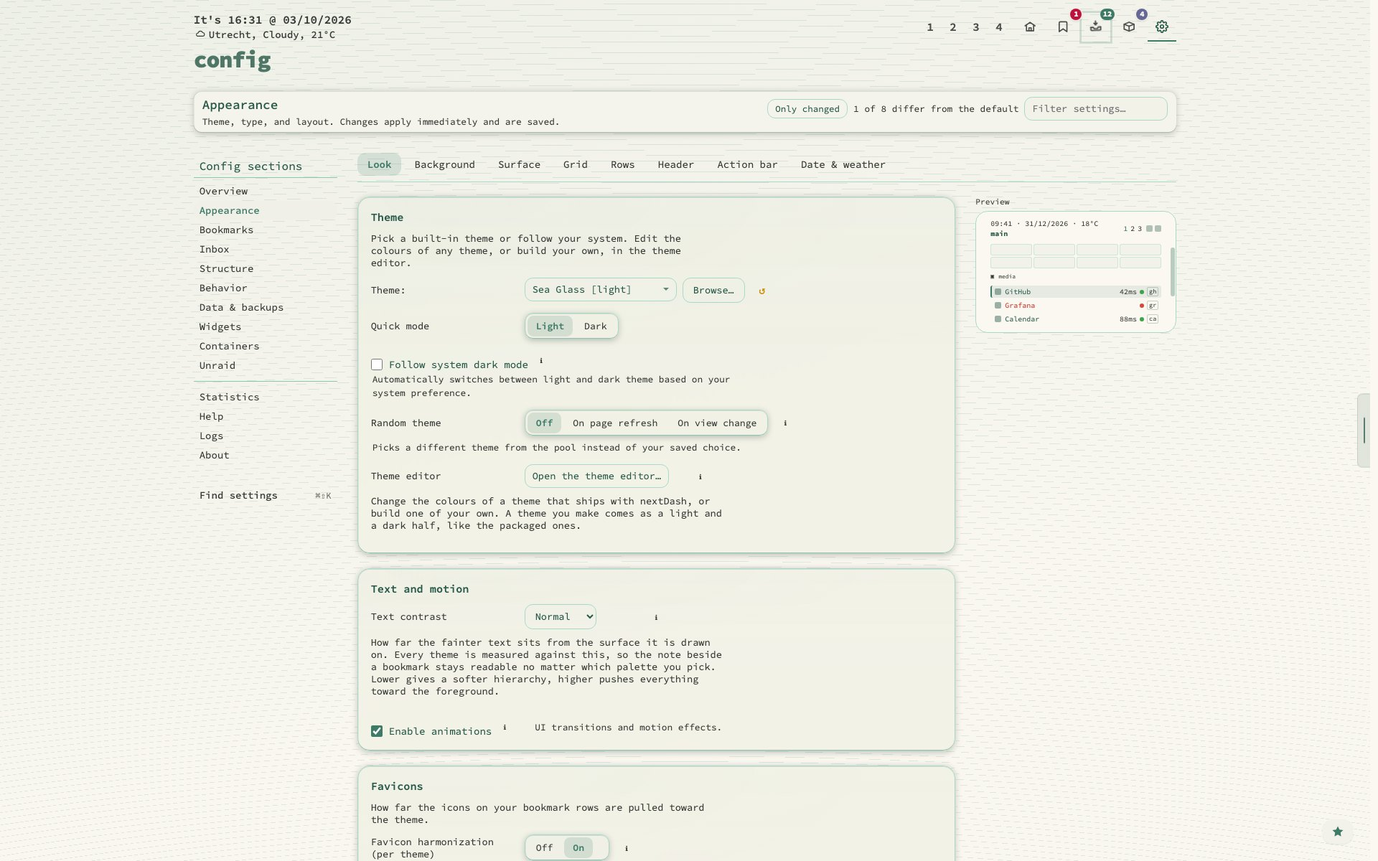
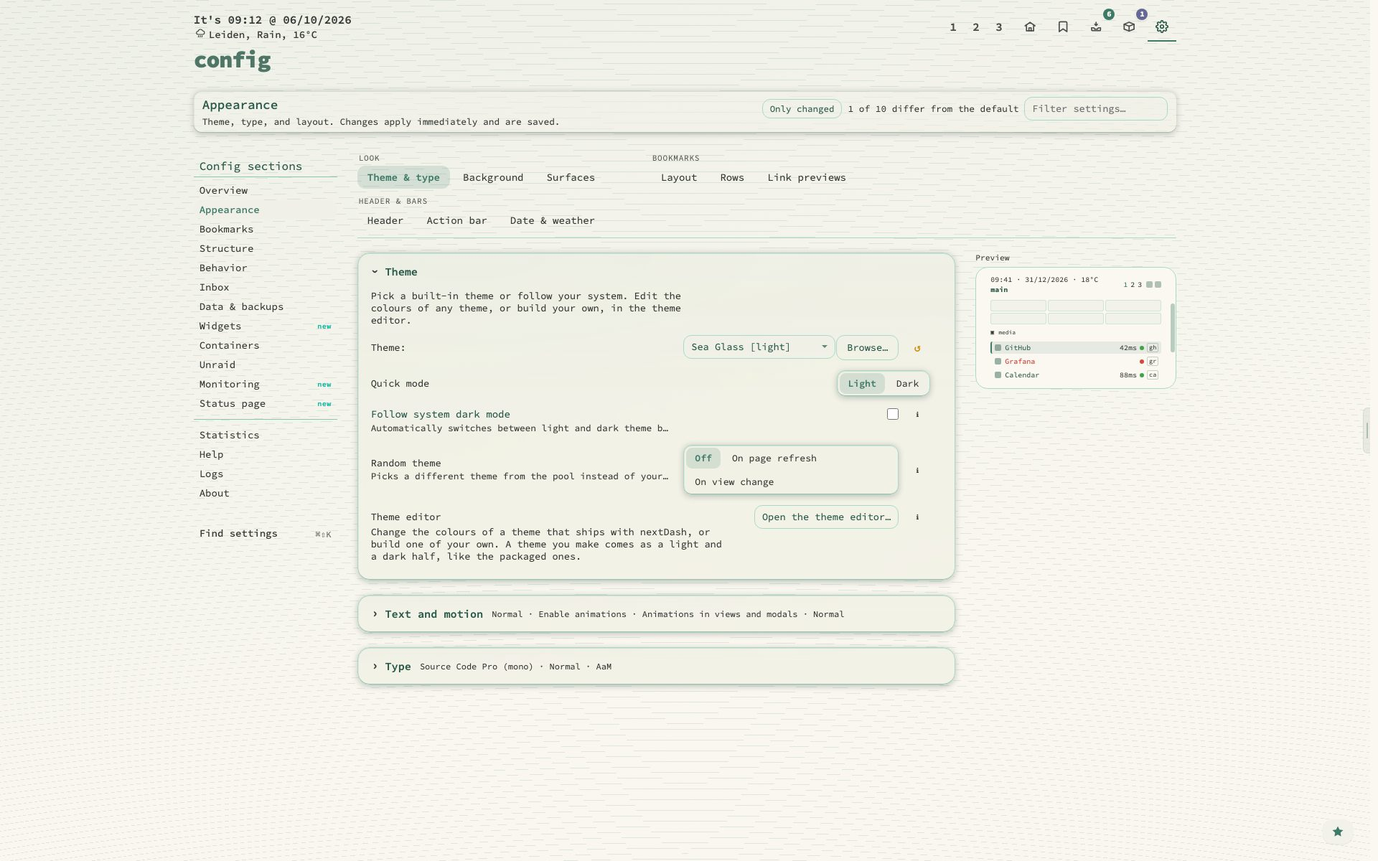
manual and readme: the grouped Appearance tabs, new screenshots

diff --git a/tests/manual-screenshots.spec.js b/tests/manual-screenshots.spec.js
@@ -528,7 +528,7 @@ test('16 look studio', async ({ page }) => {
 test('16 theme editor', async ({ page }) => {
     await prepare(page);
     await openConfig(page, 'appearance');
-    await subtab(page, 'Look').click();
+    await subtab(page, 'Theme & type').click();
     await page.getByRole('button', { name: /Open the theme editor/ }).first().click();
     // Recolour the theme on screen: its colours open below.
     await page.locator('[data-theme-base-select]').selectOption('matrix-bluepill-dark');
@@ -1127,7 +1127,7 @@ test.describe('spread', () => {
 test('full 04 density', async ({ page }) => {
     await prepare(page);
     await openConfig(page, 'appearance');
-    await subtab(page, 'Grid').click();
+    await subtab(page, 'Layout').click();
     // The Compact preset alone changes little at the demo's row height; Dense
     // beside it is what makes the page visibly tighter.
     await page.locator('select[data-behavior-field="layoutPreset"]').selectOption('compact');
@@ -1351,8 +1351,33 @@ test.describe('home assistant tile', () => {
 test('17 animation speed', async ({ page }) => {
     await prepare(page);
     await openConfig(page, 'appearance');
+    // Text and motion folds: open it by its header, the way a reader does.
+    await page.locator('#config-appearance-body .config-panel--fold', { has: page.locator('.config-panel-title', { hasText: /^\s*Text and motion\s*$/ }) })
+        .locator(':scope > .config-panel-head .config-panel-fold').click();
     const field = page.locator('[data-appearance-select="animationSpeed"]').first();
     await field.scrollIntoViewIfNeeded();
     await page.waitForTimeout(400);
     await snap(page, page.locator('.config-field-row', { has: page.locator('[data-appearance-toggle="viewAnimationsEnabled"]') }).locator('xpath=..'), '17-animation-speed.jpg', { pad: 14 });
+});
+
+test('16 appearance rows', async ({ page }) => {
+    await prepare(page);
+    await openConfig(page, 'appearance');
+    await subtab(page, 'Rows').click();
+    // Category header folds: open it by its header, the way a reader does.
+    await page.locator('#config-appearance-body .config-panel--fold', { has: page.locator('.config-panel-title', { hasText: /^\s*Category header\s*$/ }) })
+        .locator(':scope > .config-panel-head .config-panel-fold').click();
+    await page.setViewportSize({ width: 1440, height: 1290 });
+    await page.waitForTimeout(600);
+    await shot(page, '16-appearance-rows.jpg');
+});
+
+test('16 appearance action bar', async ({ page }) => {
+    await prepare(page);
+    await openConfig(page, 'appearance');
+    await subtab(page, 'Action bar').click();
+    await page.locator('#config-appearance-body .config-panel--fold').first().waitFor();
+    await page.setViewportSize({ width: 1440, height: 1100 });
+    await page.waitForTimeout(600);
+    await shot(page, '16-appearance-action-bar.jpg');
 });

diff --git a/MANUAL.md b/MANUAL.md
@@ -253,7 +253,7 @@ This manual describes nextDash as it is now. It follows the same topics as Confi
 - [Surfaces](#163-surfaces)
 - [Type and background](#164-type-and-background)
 - [Custom themes](#165-custom-themes)
-- [Grid and rows](#166-grid-and-rows)
+- [Layout and rows](#166-grid-and-rows)
 - [Header and action buttons](#167-header-and-action-buttons)
 - [Date and weather](#168-date-and-weather)
 - [Finding and resetting](#169-finding-and-resetting)
@@ -914,7 +914,7 @@ Hovering a bookmark — or pressing **`Shift + V`** on the selected row — open
 
 <img src="screenshots/manual.md/04-preview-card.jpg" alt="The link preview card of a bookmark: picture, description, a tag, when it was last opened, its shortcut and where it lives" width="408" align="left">
 
-A row with nothing to say is left out. **Config → Appearance → Rows → Link preview cards** offers **Off**, **On hover** (default) and **Keyboard only**, a hover delay, and a checklist of rows — the player is the **Video player** row in that list. `Shift + V` works in every mode and keeps the card open with **Copy**, **Refresh** and **Edit**.
+A row with nothing to say is left out. **Config → Appearance → Link previews** offers **Off**, **On hover** (default) and **Keyboard only**, a hover delay, and a checklist of rows — the player is the **Video player** row in that list. `Shift + V` works in every mode and keeps the card open with **Copy**, **Refresh** and **Edit**.
 
 **Playing a video.** Nothing reaches YouTube or Vimeo while you hover: the poster is the picture your own server already fetched, and the player is built when you press it. From the keyboard, `Shift + V` puts the cursor on the play button and `Enter` starts it. `Esc` closes the card and ends the video, and so do the **✕** over the player and a click anywhere else — a click inside the player hands the keyboard to the provider, so `Esc` only works again once your pointer leaves the card.
 
@@ -1480,7 +1480,7 @@ A category you just created stays visible even with *hide empty categories* on, 
 
 Each category header has a **⋯** menu with **Manual**, **A–Z**, **Last opened**, **Newest** and **Most opened**. The chosen sort shows as a short chip in front of the ⋯ (*A–Z*, *Rec*, *New*, *Top*); click it to go back to manual order. **Last opened** and **Most opened** put bookmarks never opened last. Pinned bookmarks always stay on top. A sorted category cannot be dragged — the cursor and a short note say so. Sorting is only a view; the stored order changes when you drag.
 
-Click a header, or press `Enter` on it, to fold the category. **`.`** folds or unfolds everything on the page, widgets included; the state is kept per page. **Start with categories collapsed** (Appearance → Grid) starts every category folded.
+Click a header, or press `Enter` on it, to fold the category. **`.`** folds or unfolds everything on the page, widgets included; the state is kept per page. **Start with categories collapsed** (Appearance → Layout) starts every category folded.
 
 <a id="94-moving-and-reordering-bookmarks"></a>
 
@@ -1513,7 +1513,7 @@ The number of columns is not a setting: it follows from **items per category** a
 | 16–30 | 2 |
 | 31–45 | 3 |
 
-The column count of the grid is the ceiling. Spreading needs a limit on items per category and at least two columns. With **Pack columns tightly** on, the categories after a spread one fill in beside and below it. On a phone held upright every category is one column wide. **Appearance → Grid → Categories across columns** holds the limit, whether new categories start spread (they do by default), and whether *turn spreading off everywhere* covers this page or all pages. A walkthrough is under Config → Help → Structure & bookmarks.
+The column count of the grid is the ceiling. Spreading needs a limit on items per category and at least two columns. With **Pack columns tightly** on, the categories after a spread one fill in beside and below it. On a phone held upright every category is one column wide. **Appearance → Layout → Categories across columns** holds the limit, whether new categories start spread (they do by default), and whether *turn spreading off everywhere* covers this page or all pages. A walkthrough is under Config → Help → Structure & bookmarks.
 
 <a id="96-smart-collections"></a>
 
@@ -1583,7 +1583,7 @@ A file is at most 2 MB.
 
 - Set them in the bookmark form, the side panel in the Bookmarks view, with `Shift + T`, or with `:tag +name`. The form, the side panel, `Shift + T` and the selection's tag picker each show the tags this bookmark is likely to want, under **Suggested**; `Shift + T` opens at the top of its list, with those first.
 - Stored in lower case, trimmed, without duplicates. Autocomplete offers the tags you already use.
-- **Tags on rows** (Appearance → Rows) shows them as chips on the dashboard — the first few, then a count. The chips are labels only; to see everything with a tag, use the tag cloud (`/`) or select the bookmark and press `t`.
+- **Tags on rows** (Appearance → Rows → Bookmark display) shows them as chips on the dashboard — the first few, then a count. The chips are labels only; to see everything with a tag, use the tag cloud (`/`) or select the bookmark and press `t`.
 
 <a id="102-filtering-by-tag"></a>
 
@@ -3050,9 +3050,23 @@ Seven widgets read an Unraid server through its API: **Unraid**, **Unraid array*
 ## 16. 🎨 Appearance
 
 > [!NOTE]
-> **In short:** Appearance changes how the dashboard looks: themes, background, surfaces, type, grid, rows, header and action bar. Pick, preview and apply, or build a theme of your own.
+> **In short:** Appearance changes how the dashboard looks: themes, background, surfaces, type, layout, rows, link previews, header and action bar. Pick, preview and apply, or build a theme of your own.
 
-**Config → Appearance** opens straight on its settings, on the tab you had open if that was in the last five minutes, and on **Look** otherwise. Eight tabs: **Look**, **Background**, **Surface**, **Grid**, **Rows**, **Header**, **Action bar** and **Date & weather**. Every setting of a tab is on it, with a short line under each saying what it does.
+**Config → Appearance** opens straight on its settings, on the tab you had open if that was in the last five minutes, and on **Theme & type** otherwise. Nine tabs in three labelled groups:
+
+| Group | Tabs |
+|---|---|
+| **Look** | **Theme & type**, **Background**, **Surfaces** |
+| **Bookmarks** | **Layout**, **Rows**, **Link previews** |
+| **Header & bars** | **Header**, **Action bar**, **Date & weather** |
+
+The strip wraps instead of scrolling: a group that does not fit moves to the next line whole, so every tab is on screen down to phone width. Every setting is on one of them, with a short line under each saying what it does. The old names still open the right tab: a link to `/#config/appearance/grid` lands on Layout, `…/look` on Theme & type, and `…/surface` on Surfaces.
+
+**Panels fold.** On every tab the first panel is open and the others fold to a header with one line of their current values, changed values first. Open or fold a panel by hand and it stays that way, per tab, in this browser. The filter, **Only changed**, **Find settings** and a link such as `/#config/appearance/rows/category-header` open the panel they land in; **Reset panel** in a folded header resets it without opening it. A tab with more than three panels lists them above the preview — choosing one opens it and scrolls to it, and the panel in view is marked; under 900 px the list is left out.
+
+**Label left, control right.** A setting's label and one-line explanation stand on the left and its control on the right, in one shared column. A longer explanation is cut with an ellipsis and stays whole in its tooltip and the ℹ. Under 600 px the control goes under its label.
+
+**Chips.** A run of *Show the … button* switches is one row of chips: the action bar (nine buttons), the header buttons, the category header extras, the row status and the date line. Each chip is still its own setting; the group has one **↺** for the chips that differ from the default and one **ℹ** that says what each chip does. The link preview fields and the Bookmarks view's columns and rail blocks use chips too.
 
 **The preview.** Beside the settings stands a small drawing of your dashboard — header, grid, a few rows and the action dock. It follows every change as you make it, in your own theme and font, and marks the part the open tab is about: the grid on Grid, the rows on Rows, the header on Header, the clock on Date & weather, the buttons on Action bar. On a narrow window it moves above the settings.
 
@@ -3062,7 +3076,7 @@ Seven widgets read an Unraid server through its API: **Unraid**, **Unraid array*
 
 nextDash ships **164 theme families**, each with a light and a dark half — 328 themes in all. A fresh install starts on **Matrix Bluepill**, cyan code on deep blue, with depth, glow and effects on **Follow the theme**, so the theme draws itself the way it was made.
 
-**Theme** on the Look tab lists every theme by name. Beside it:
+**Theme** on the Theme & type tab lists every theme by name. Beside it:
 
 - **The theme browser** — **Browse…**, or **`Shift + A`** on the dashboard. It opens as a panel beside the dashboard, with tabs of its own ([see below](#the-theme-browser)); the first, **Themes**, has one card per family, with a light/dark switch and the line that says what the theme is like to sit in front of. At the top: a search box, the segments *All*, *Favourites*, *Light* and *Dark*, and **More filters**, which unfolds the **character chips** ([§16.2](#162-character)) and the **collection** chips. While it is folded, the filters that are on show as chips you can remove, and the button counts them. *Light* and *Dark* turn every card to that half; a card can still be switched by hand. Search matches a family's name, its character and the words of its line. The 38 newest families wear a **new** badge, and searching `new` finds them. Themes of your own come first, under **Your themes**, with a **yours** badge (and **look** when they bring one along); a segment **Yours** shows only them, and searching `yours` finds them. A packaged theme you recoloured wears **recoloured**. A star keeps up to 24 families under *Favourites*. Pointing at a card previews that theme on the real dashboard; clicking one puts it on the page. A line above the grid names the theme in use — or, once you have picked another, which one is chosen and which stays until **Apply** — and **Show** brings its card into view.
 - **Collections** — the **Neutrals** collection holds five calm grey palettes — Slate, Zinc, Gray, Stone and Neutral — drawn under glass, each with a backdrop of its own.
@@ -3174,8 +3188,8 @@ roundness, and the surfaces the theme asks to be drawn at.
 ### 16.3 Surfaces
 
 These change how any theme is drawn. Depth, Glow, Effects and Card glass are on
-the **Surface** tab; Text contrast, animations and favicon harmonization on
-**Look**. The first three start on **Follow the theme**: each theme states what
+the **Surfaces** tab; Text contrast and animations on **Theme & type**, favicon
+harmonization in the **Favicons** panel on **Rows**. The first three start on **Follow the theme**: each theme states what
 it was drawn for, and picking a theme brings its answer with it.
 
 | Setting | Choices |
@@ -3208,7 +3222,7 @@ other theme keeps its own. The backdrop and the card glass work the same way.
 - **Typeface** — Source Code Pro, JetBrains Mono, IBM Plex Mono, Inter, IBM Plex Sans, DM Sans or System UI — or **upload a font file**.
 - **Weight** — Normal, Semi-bold or Bold. **Size** — seven steps from XS to XL; pointing at a size previews it.
 
-Type is on the **Look** tab; everything behind the bookmarks is on the **Background** tab, drawn in three layers from the bottom up: the theme's backdrop, a pattern over it, and a background of your own on top.
+Type is in the **Type** panel on the **Theme & type** tab; everything behind the bookmarks is on the **Background** tab, drawn in three layers from the bottom up: the theme's backdrop, a pattern over it, and a background of your own on top.
 
 - **Source** — **Auto** (follows the theme), **None**, **Gradient** or **Image**. **Opacity** (65–100%) fades it so the bookmarks stay readable. A background of your own is drawn over the theme backdrop.
 - **Theme backdrop** — **Follow the theme** (default), **Choose one** or **Off**. Every theme draws a backdrop of its own, in its own colours; each light and dark half share one. *Follow the theme* names the one it draws, and *Choose one* opens a grid of all 26, previewed in your theme's colours:
@@ -3231,7 +3245,7 @@ Type is on the **Look** tab; everything behind the bookmarks is on the **Backgro
 
 ### 16.5 Custom themes
 
-**Open the theme editor…** on the Look tab opens the editor as a page of its own; **← Look** above it goes back. A link to `/#config/appearance/custom-themes` opens it directly.
+**Open the theme editor…** on the Theme & type tab opens the editor as a page of its own; the back link above it returns to Theme & type. A link to `/#config/appearance/custom-themes` opens it directly.
 
 - **Your themes** — **Add custom theme**, edit, reorder (↑ ↓), delete, **⤓** export to a JSON file, and **Import theme…**. A theme you make appears in the theme list beside the packaged ones.
 - A custom theme can set everything a packaged theme can: its colours, and under **Shape & character** its character, corner roundness, surface opacity, blur, glow, the **Gloss** slider (how much light a surface catches), the grain's direction and strength, the category titles, the backdrop — **Automatic** or any of the 26 patterns, shown as tiles in the theme's own colours — and the depth and effects it asks to be drawn at. It has a light and a dark half, like the built-in themes.
@@ -3250,9 +3264,9 @@ Type is on the **Look** tab; everything behind the bookmarks is on the **Backgro
 
 <a id="166-grid-and-rows"></a>
 
-### 16.6 Grid and rows
+### 16.6 Layout and rows
 
-**Grid**
+**Layout** tab — panels **Bookmarks layout** and **Categories across columns**.
 
 | Setting | What it does |
 |---|---|
@@ -3271,7 +3285,7 @@ Type is on the **Look** tab; everything behind the bookmarks is on the **Backgro
 
 Small drawings beside the shape settings show what a value looks like.
 
-**Rows**
+**Rows** tab — panels **Favicons**, **Category header** and **Bookmark display**. The first two lines are the Favicons panel; **Favicon harmonization** (Muted, Tinted or Overlay, with an intensity, stored per theme) is in it too.
 
 | Setting | What it does |
 |---|---|
@@ -3279,10 +3293,14 @@ Small drawings beside the shape settings show what a value looks like.
 | **Change bookmark color when offline** | A broken row takes the status colour |
 | **Shortcut letters on rows** | **Always** (default; a column down the right of each category) · **Only on the row you are on** · **Never** — the shortcuts keep working in every mode |
 | **How a row lights up** | **Subtle** (default) or **Strong** — how far the accent carries across the row you are on |
-| **Show online/offline status** | Status colours on the rows; with it, **Show a loading state while checking** and **Show ping times** |
+| **Row status** | Chips for the online/offline status colours, **a loading state while checking** and **ping times** |
 | **Show tags on bookmark rows** | And **Tags shown before "+N"** |
-| **Category header** | How a category's name reads above its bookmarks. **Style**: Follow the theme (default), Clean, Underlined (optionally in the accent colour), Boxed, Label or Group card, which wraps the category and its bookmarks in one pane. **Size**: Small, Medium or Large. **Show the category icon** — the icon is chosen per category, from its menu. **Show how many bookmarks it holds** puts the count on the right |
-| **Link preview cards** | Off · On hover (default) · Keyboard only, a hover delay (Fast, Balanced, Calm) and **What the card shows**: image, site, author & date, video player, description, your note, tags, status & uptime, opens, Fresh count, shortcut & location ([§4](#4-the-dashboard)) |
+| **Category header** | How a category's name reads above its bookmarks. **Style**: Follow the theme (default), Clean, Underlined (optionally in the accent colour), Boxed, Label or Group card, which wraps the category and its bookmarks in one pane. **Size**: Small, Medium or Large. **Shown in the header** — chips for the category icon (chosen per category, from its menu), the count of bookmarks on the right, and the underline |
+
+**Link previews** tab — one panel, **Link preview cards**: Off · On hover (default) · Keyboard only, a hover delay (Fast, Balanced, Calm) and **What the card shows**, as chips: image, site, author & date, video player, description, your note, tags, status & uptime, opens, Fresh count, shortcut & location ([§4](#4-the-dashboard)).
+
+<p align="center"><img src="screenshots/manual.md/16-appearance-rows.jpg" alt="Config, Appearance on its Rows tab: the open Favicons panel, the open Category header panel with its Style and Size choices and the Icon, Count and Underline chips, and the folded Bookmark display panel with a line of its values" width="860"></p>
+<p align="center"><sub>The Rows tab: two panels open, the third folded to its values; the header extras are chips.</sub></p>
 
 <details>
 <summary>📷 Screenshot — the Compact layout preset at Dense density, full page</summary>
@@ -3297,16 +3315,20 @@ Small drawings beside the shape settings show what a value looks like.
 
 See [§4](#4-the-dashboard) for what each part does. The settings:
 
-- **Header** tab — button style (plain or boxed), page tabs on/off, page names in tabs, page switcher style, page tabs before *+N*, the dashboard title, and toggles for the dashboard, inbox and config buttons (the Bookmarks and Containers icons are switched under Config → Bookmarks → View and Config → Containers). Also **Clock & weather** — where they stand: beside the view name, in a column of their own, or on their own line — and **Browser tab**: the page name in the browser title, and **Branding**, the page title and favicon, also used when nextDash is installed as an app.
-- **Action bar** tab — where the fixed buttons stand (a column on the right by default), action buttons before *+N*, show the action buttons, show the key on each button, slide a docked bar away (2 seconds by default), how the buttons come into view each time the bar appears (off by default; five styles on cards), and one switch per button. See [§4](#4-the-dashboard) for what sliding away looks like and how the bar comes back.
+- **Header** tab, panels **Header** and **Browser tab & branding** — button style (plain or boxed), page tabs on/off, page names in tabs, page switcher style, page tabs before *+N*, the dashboard title, and chips for the dashboard, inbox, config and Bookmarks-view buttons. The browser tab sits in the second panel: the page name in the browser title, a custom title and the favicon upload, also used when nextDash is installed as an app. Where the clock and weather stand is set on Date & weather ([§16.8](#168-date-and-weather)).
+- **Action bar** tab — **Show the action buttons** leads, since it decides whether the rest matters; then where the fixed buttons stand (a column on the right by default), **Button size** (extra small to extra large; medium by default, one step up from the 28 px squares the bar had, which are now *small*), action buttons before *+N*, show the key on each button (off for new installs), slide a docked bar away (2 seconds by default), how the buttons come into view each time the bar appears (off by default; a dropdown — picking a style plays it on the real bar at once), and one chip per button. See [§4](#4-the-dashboard) for what sliding away looks like and how the bar comes back.
 
-Each group has **Show all / Hide all**.
+Each chip group has **Show all / Hide all**.
+
+<p align="center"><img src="screenshots/manual.md/16-appearance-action-bar.jpg" alt="Config, Appearance on its Action bar tab: Show the action buttons, where the bar stands, Button size set to Medium, the key switch, the animation dropdown and the nine button chips" width="860"></p>
+<p align="center"><sub>The Action bar tab: size and animation are dropdowns, the nine buttons are chips.</sub></p>
 
 <a id="168-date-and-weather"></a>
 
 ### 16.8 Date and weather
 
-- **Date & time** — show date, show time, date format, 12- or 24-hour clock. Where the clock and weather stand in the header is set on the Header tab ([§16.7](#167-header-and-action-buttons)).
+- **Clock & weather** — leads the tab: where they stand — beside the view name, in a column of their own, or on their own line.
+- **Date & time** — show date, show time (chips), date format, 12- or 24-hour clock.
 - **Weather** — on or off, **Location source** (a city you type, or *Automatic (by IP)*), Celsius or Fahrenheit, refresh interval. The Weather widget reads the same settings.
 - **Calendar** — **Calendar URL** (the link in the date popover) and **Calendar feed URL (.ics)** (what the Calendar widget reads).
 
@@ -3314,7 +3336,7 @@ Each group has **Show all / Hide all**.
 
 ### 16.9 Finding and resetting
 
-Each tab has a filter beside **Only changed**. When the filter — or **Only changed** — finds something on another tab too, the line under the list names that tab with a count (*Also found on: Header 2*); a click opens it and keeps the filter. **↺** resets one setting, **Reset panel** a whole group. `Ctrl/Cmd + Shift + K` finds any setting ([§17](#17-config)).
+Each tab has a filter beside **Only changed**. When the filter — or **Only changed** — finds something on another tab too, the line under the list names that tab with a count (*Also found on: Header 2*); a click opens it and keeps the filter. A match inside a folded panel — or on one chip — opens that panel. **↺** resets one setting, **Reset panel** a whole group. `Ctrl/Cmd + Shift + K` finds any setting ([§17](#17-config)).
 
 <sub>[↑ Contents](#table-of-contents)</sub>
 
@@ -3347,7 +3369,7 @@ Config reopens on the section and tab you left, for five minutes after you leave
 | Section | What lives there |
 |---------|------------------|
 | **Overview** | One line of what needs you, then **Your install** — panels for bookmarks, the inbox, containers, health and statistics — beside **From nextDash**: the newest posts, the version you run, the newest features and a tip of the day ([§17.8](#178-overview-help-and-about)). |
-| **Appearance** | Look · Background · Surface · Grid · Rows · Header · Action bar · Date & weather ([§16](#16-appearance)) |
+| **Appearance** | Look: Theme & type · Background · Surfaces — Bookmarks: Layout · Rows · Link previews — Header & bars: Header · Action bar · Date & weather ([§16](#16-appearance)) |
 | **Bookmarks** | View · Tags · Tag suggestions · Your rules · Settings · Local copies ([§17.4](#174-config-bookmarks)) |
 | **Structure** | Categories · Pages · Finders · Collections ([§9](#9-pages-categories-and-collections)) |
 | **Behavior** | General · Keyboard & search · Fresh · Privacy & sync ([§17.5](#175-behavior)) |
@@ -3368,7 +3390,8 @@ Old addresses still land in the right place — for example `/#config/pages-tags
 <details>
 <summary>📷 Screenshot — Config → Appearance, full page</summary>
 
-<p align="center"><img src="screenshots/manual.md/17-appearance.jpg" alt="Config, Appearance on its Look tab: the theme select with Browse, Quick mode, Follow system dark mode, Random theme and the theme editor, with a small preview on the right" width="860"></p>
+<p align="center"><img src="screenshots/manual.md/17-appearance.jpg" alt="Config, Appearance on its Theme & type tab: the tabs in three groups (Look, Bookmarks, Header & bars), the open Theme panel with Browse, Quick mode, Follow system dark mode, Random theme and the theme editor, the folded Text and motion panel below it and a small preview on the right" width="860"></p>
+<p align="center"><sub>Appearance: three groups of tabs, the first panel open and the rest folded to one line of values.</sub></p>
 
 </details>
 
@@ -3376,7 +3399,7 @@ Old addresses still land in the right place — for example `/#config/pages-tags
 
 ### 17.2 Tabs and saving
 
-**Appearance**, **Behavior** and **Monitoring** open straight on their settings, in tabs, on the tab you had open in the last five minutes, or on the first one. A row of tabs stays on one line; on a narrow screen it scrolls sideways. Every setting of a tab is on it — the ones that change most first — with a short line under each saying what it does. Appearance keeps a live preview of the dashboard beside its tabs ([§16](#16-appearance)).
+**Appearance**, **Behavior** and **Monitoring** open straight on their settings, in tabs, on the tab you had open in the last five minutes, or on the first one. Appearance's tabs stand in three labelled groups that wrap onto the next line when they do not fit; Behavior's and Monitoring's stay on one line and scroll sideways on a narrow screen. Every setting of a tab is on it — the ones that change most first — with a short line under each saying what it does. Appearance keeps a live preview of the dashboard beside its tabs ([§16](#16-appearance)).
 
 **Every change saves the moment you make it**, confirmed by a short message. The exceptions are forms with their own **Save** button — the bookmark form and a widget's settings. Config only writes what changed.
 
@@ -4612,9 +4635,9 @@ Docker: the mounted volume (for example `./data`, mounted at `/app/data`). Binar
 | Tag cloud and tag view | Every tag from every page in three sizes with counts; pick one to open its tag view — all its bookmarks from every page in a table, with related tags, bulk actions and rename, merge or remove for the tag. Shift to stack, type to find. | [§10.2](#102-filtering-by-tag) |
 | Tag collection | A group nextDash makes of every tag that enough bookmarks use. | [§9.7](#97-custom-and-tag-collections) |
 | Tag suggestions | Proposals for one tag for a whole group of bookmarks, from your own rules and other sources. | [§10.4](#104-tag-suggestions) |
-| Theme | A colour scheme; 164 families each come in a light and a dark half, picked on the Look tab or in the theme browser. | [§16.1](#161-themes) |
+| Theme | A colour scheme; 164 families each come in a light and a dark half, picked on the Theme & type tab or in the theme browser. | [§16.1](#161-themes) |
 | Theme browser | The panel beside the dashboard, opened with `Shift + A`, for themes, backdrops, surfaces, headers, type and looks. | [§16.1](#the-theme-browser) |
-| Theme editor | The page for recolouring a packaged theme or building a theme of your own, opened from the Look tab; not the theme browser. | [§16.5](#165-custom-themes) |
+| Theme editor | The page for recolouring a packaged theme or building a theme of your own, opened from the Theme & type tab; not the theme browser. | [§16.5](#165-custom-themes) |
 | Timeline | A container's history in its side panel: crashes with exit code, out-of-memory kills, health changes, updates and rollbacks. | [§14.3](#143-the-side-panel) |
 | Trash | Deleted bookmarks, pages and categories stay here for 30 days. | [§19.5](#195-trash) |
 | Triage | Takes you through unread inbox links one at a time, in the same shape as Work through. | [§13.4](#134-triage) |

diff --git a/README.md b/README.md
@@ -150,7 +150,7 @@ nextDash is a bookmark dashboard that also knows your Docker host. The link to S
     <td width="50%" align="center" valign="top">
       <img src="screenshots/nextdash-config-appearance.jpg" alt="Config: Appearance" width="100%" />
       <br />
-      <sub><b>Config → Appearance</b> <i>(Sea Glass, light)</i> — Eight tabs — Look, Background, Surface, Grid, Rows, Header, Action bar, Date &amp; weather — with a small live preview of your dashboard beside them. Every change applies and saves at once.</sub>
+      <sub><b>Config → Appearance</b> <i>(Sea Glass, light)</i> — Nine tabs in three groups — Look, Bookmarks, Header &amp; bars — whose panels fold to a line of their values, with a small live preview of your dashboard beside them. Every change applies and saves at once.</sub>
     </td>
     <td width="50%" align="center" valign="top">
       <img src="screenshots/nextdash-config-statistics.jpg" alt="Config: Statistics" width="100%" />
@@ -455,7 +455,8 @@ Each line links to the part of the [manual](MANUAL.md) that explains it.
 - **A theme browser that is a look studio.** It opens beside the dashboard and changes the page live: the theme, its backdrop, depth and card glass, the category headers and the type. Twelve ready-made looks set them in one go; Compare shows what you had, and nothing is saved until Apply. *[Theme browser](MANUAL.md#the-theme-browser)*
 - 26 backdrops drawn in each theme's own colours, from aurora and dunes to stars and hexagons, each theme with one picked for it — or choose your own and tune it with intensity, scale, blur and tint. *[Manual §16.4](MANUAL.md#164-type-and-background)*
 - Character, depth, glow, effects, card glass and contrast for any theme; category header styles, layout presets, columns, density and fonts. *[Manual §16.3](MANUAL.md#163-surfaces)*
-- A header you arrange yourself: four page-switcher styles, and action buttons in a dock, a side column, the header or one menu. *[Manual §4](MANUAL.md#4-the-dashboard)*
+- A header you arrange yourself: four page-switcher styles, and action buttons in a dock, a side column, the header or one menu, in five sizes. *[Manual §4](MANUAL.md#4-the-dashboard)*
+- **Appearance in nine tabs, three groups.** Panels fold to a line of their values, runs of switches are chips, and a list of panels sits above the preview on long tabs. *[Manual §16](MANUAL.md#16-appearance)*
 - Six languages: English, Dutch, German, French, Spanish and Chinese. *[Manual §17](MANUAL.md#17-config)*
 
 **Data**
